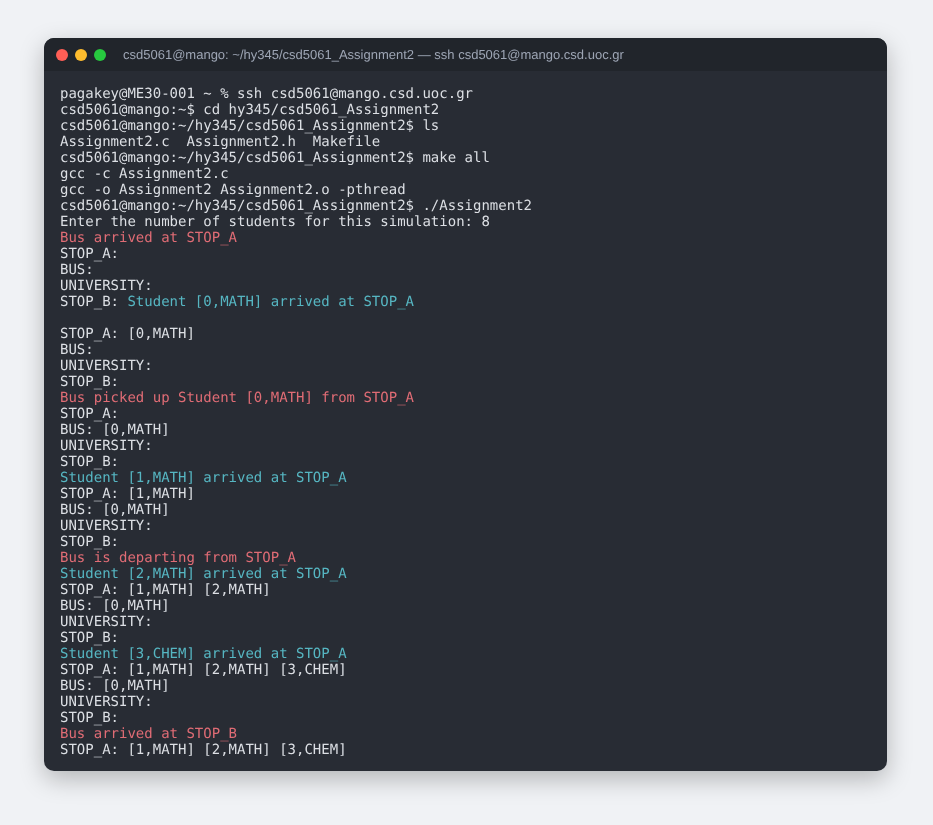
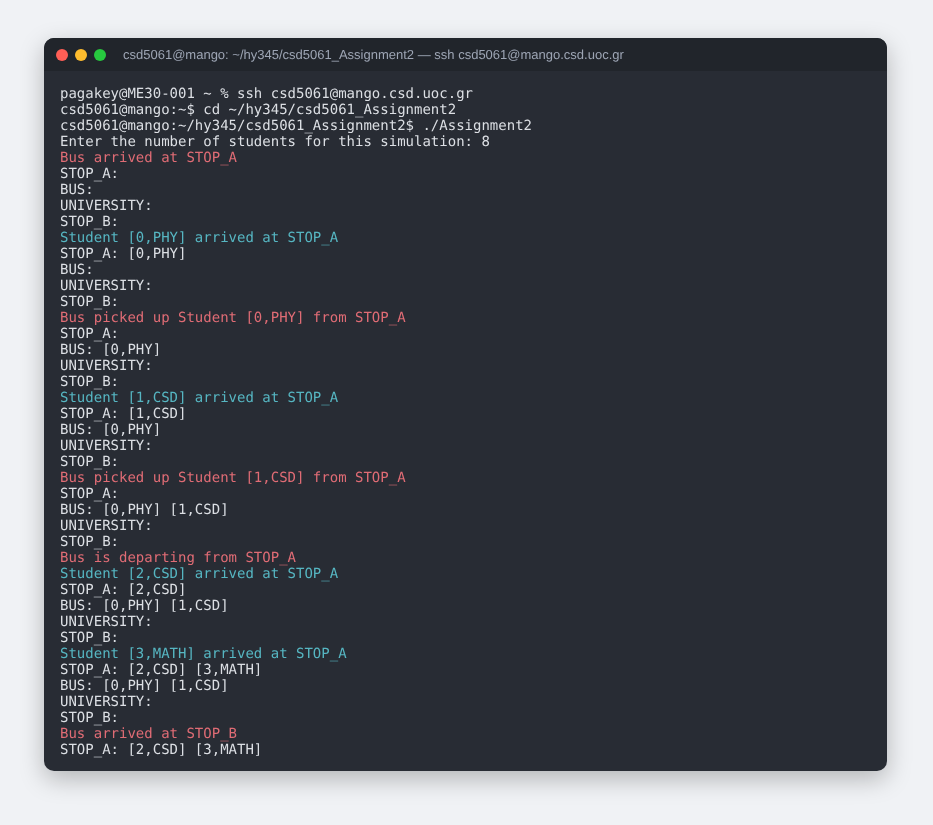
Use real output from mango for the shell and bus simulation demos
Claude-Session: https://claude.ai/code/session_01X5HQ8aaj8c6XwRA2gcg1Bz

diff --git a/demos/README.md b/demos/README.md
@@ -11,6 +11,6 @@ All inputs are small made-up samples, included next to the images:
 | Streaming Service | [phase-a-events.txt](streaming-service/phase-a-events.txt), [phase-b-events.txt](streaming-service/phase-b-events.txt) |
 | Stratego | A few clicks: Play, move Blue's Yeti forward, move Red's Mage up, attack |
 
-The shell and bus simulation were run in a terminal session set up like the course's SSH server (user `csd5061`, host `mango`, home `/home/ugrads/class21/csd5061`, the assignment folders under `~/hy345`), so the prompts match how they were originally used.
+The shell and bus simulation images use real output from the University of Crete CSD server `mango`, run over SSH from the assignment folders in `~/hy345`. Only the terminal window styling is added, and the server's login banner is left out.
 
 Excerpts marked `...` skip the start or middle of a long run.
